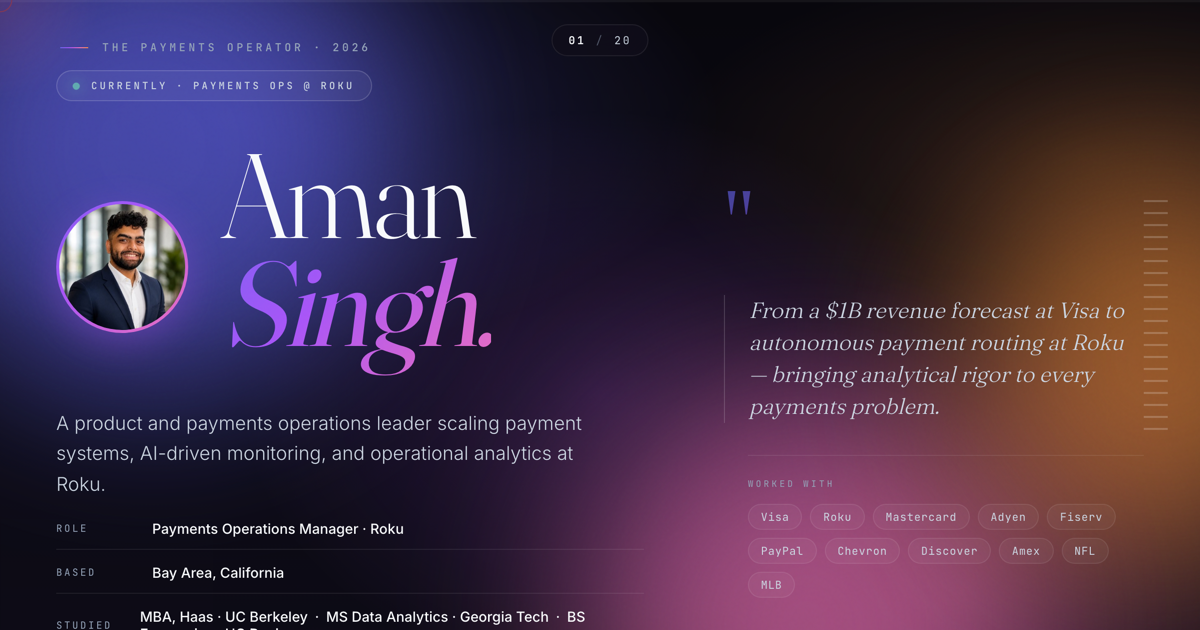
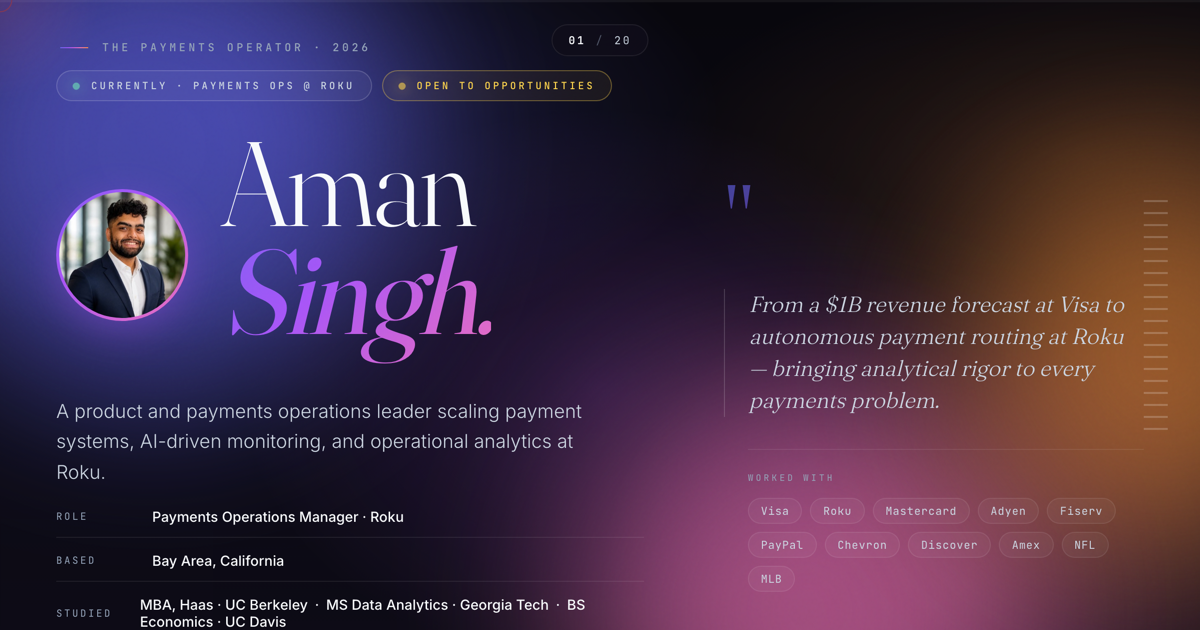
Add files via upload

diff --git a/index.html b/index.html
@@ -384,10 +384,17 @@
     font-size: 10px;
     letter-spacing: 2.5px;
     color: var(--text-soft);
-    margin-bottom: 40px;
     text-transform: uppercase;
     font-weight: 500;
     backdrop-filter: blur(20px);
+  }
+
+  .hero-tags {
+    display: flex;
+    flex-wrap: wrap;
+    align-items: center;
+    gap: 10px;
+    margin-bottom: 28px;
   }
 
   .hero-tag::before {
@@ -398,6 +405,17 @@
     background: var(--mint);
     box-shadow: 0 0 12px var(--mint);
     animation: livePulse 2s infinite;
+  }
+
+  .hero-tag.open {
+    color: var(--gold);
+    border-color: rgba(252, 211, 77, 0.35);
+    background: rgba(252, 211, 77, 0.06);
+  }
+
+  .hero-tag.open::before {
+    background: var(--gold);
+    box-shadow: 0 0 12px var(--gold);
   }
 
   @keyframes livePulse {
@@ -2308,7 +2326,10 @@
 
     <div class="hero-grid">
       <div class="reveal">
-        <div class="hero-tag">Currently · Payments Ops @ Roku</div>
+        <div class="hero-tags">
+          <div class="hero-tag">Currently · Payments Ops @ Roku</div>
+          <div class="hero-tag open">Open to opportunities</div>
+        </div>
         <div class="hero-name-row">
           <img class="hero-avatar" src="headshot.jpg" alt="Aman Singh" width="132" height="132">
           <h1>Aman<br><span class="em">Singh.</span></h1>
